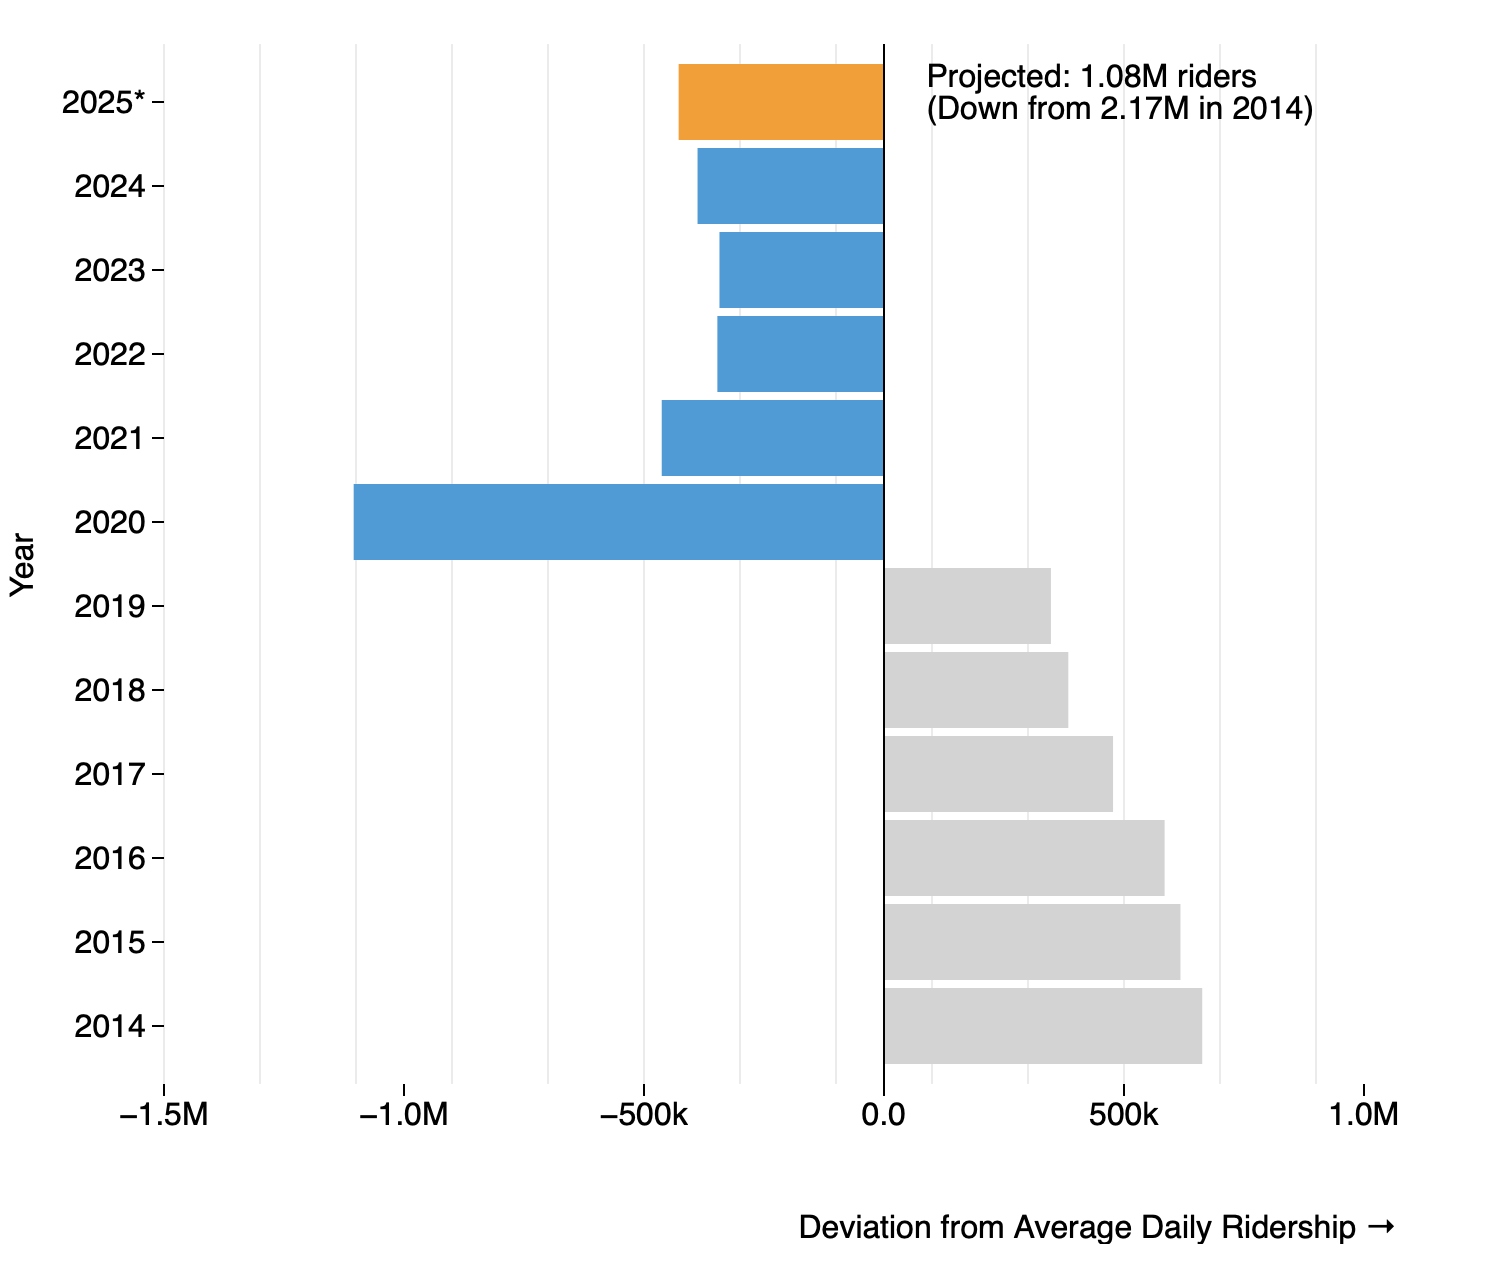
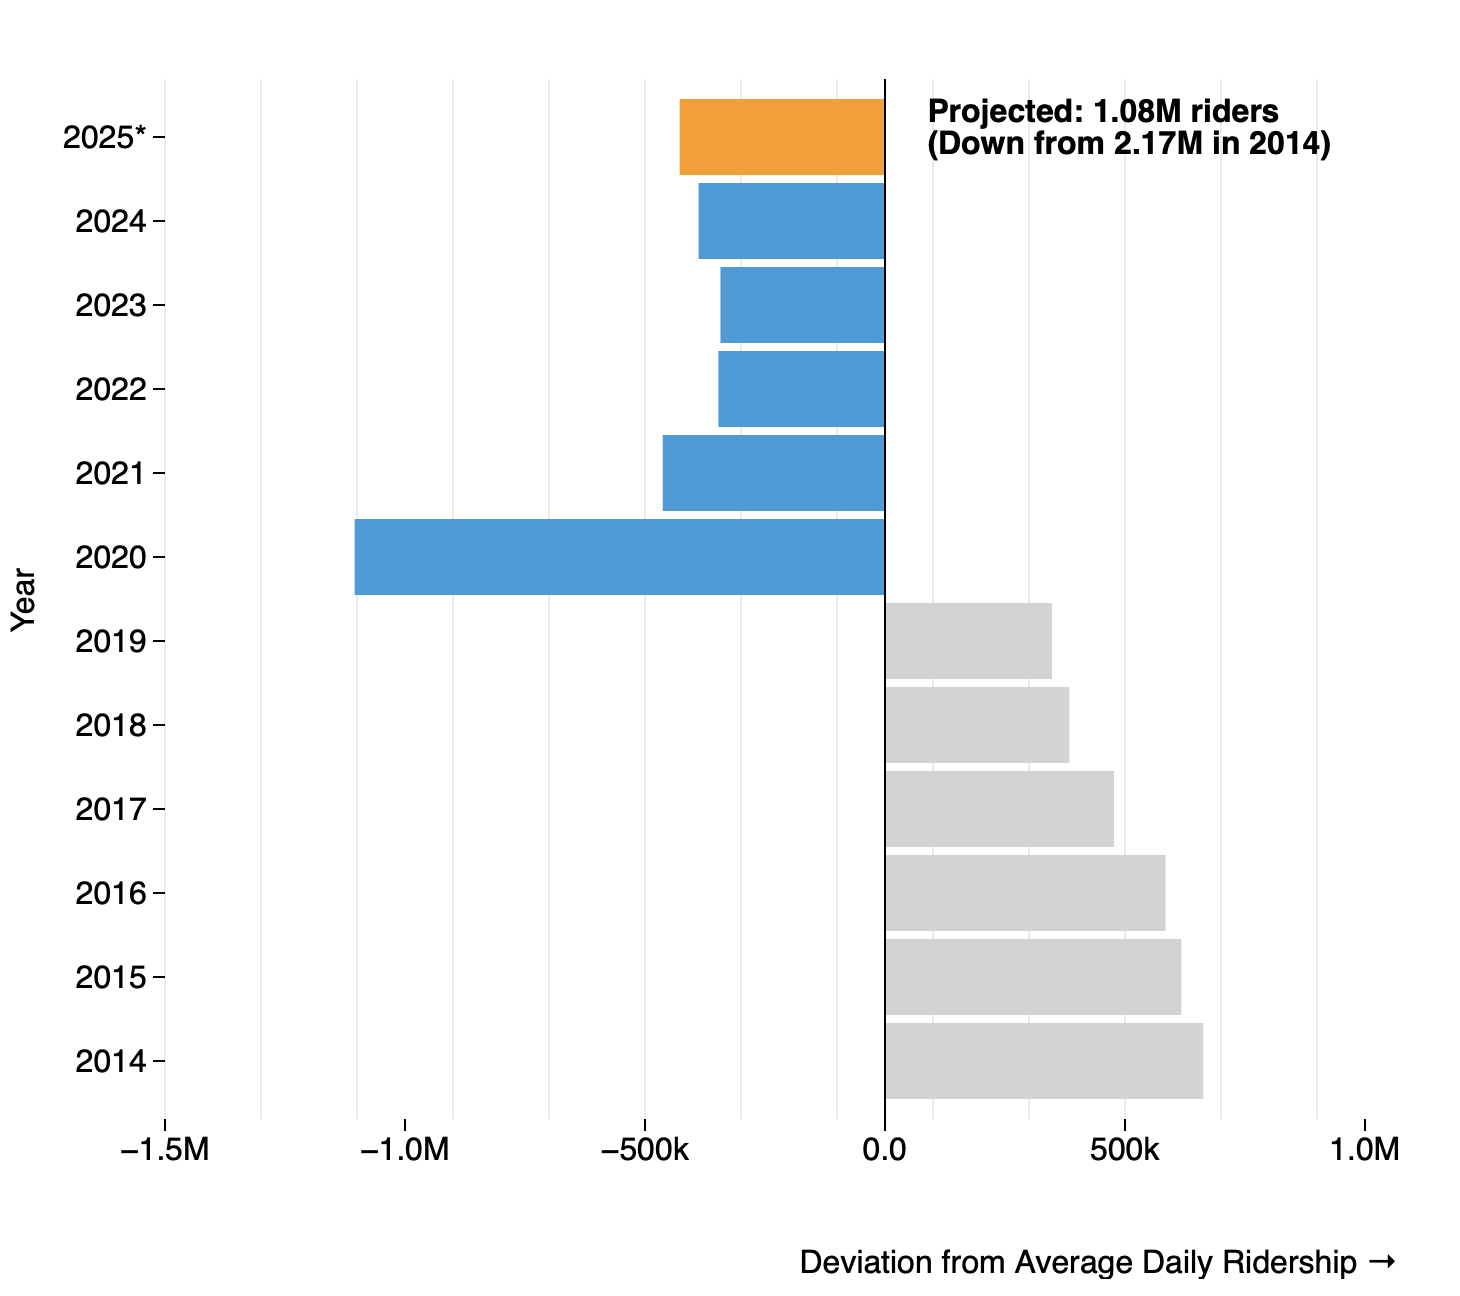
Initial commit

diff --git a/assets/js/daily_ridership_bardiverge.js b/assets/js/daily_ridership_bardiverge.js
@@ -88,7 +88,8 @@ const chart = Plot.plot({
         dy: -5,
         fontSize: 16,
         fill: "Black",
-        textAnchor: "start"
+        textAnchor: "start",
+        fontWeight: "bold"
       }
     )
   ]
